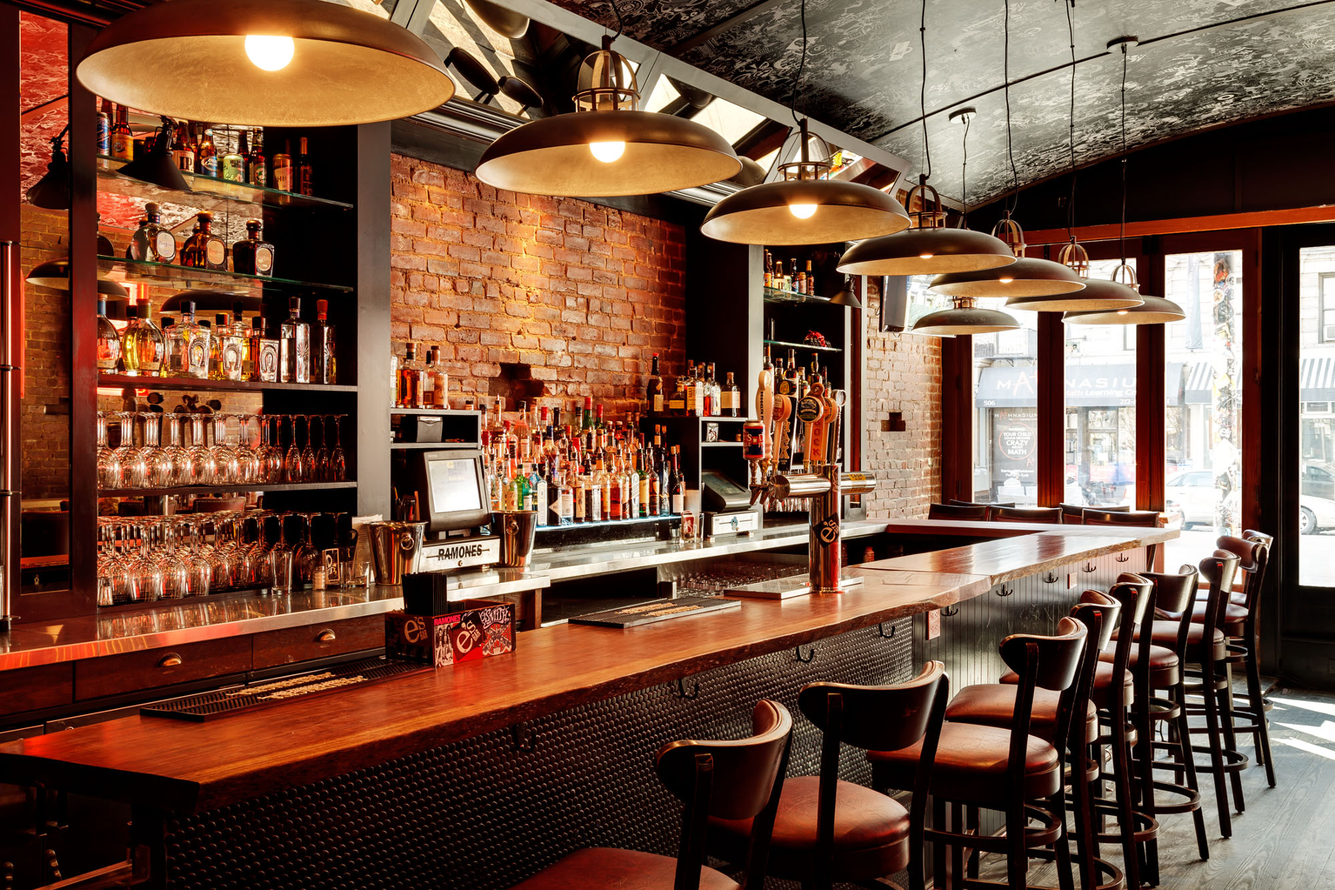
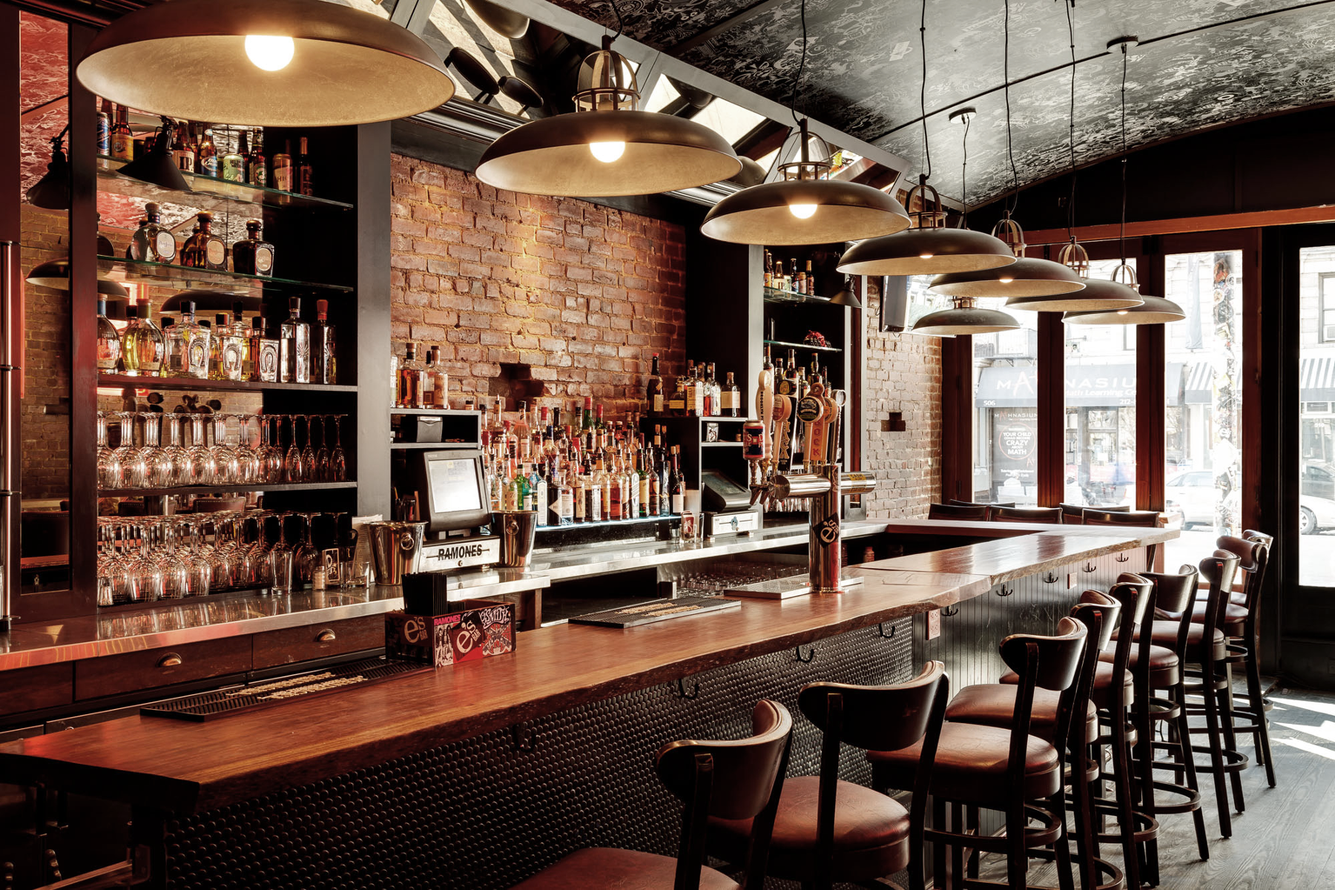
Modification Benjamin Mercredi 20/09

diff --git a/css/style.css b/css/style.css
@@ -2,7 +2,15 @@
 
 /*Paramètre général*/
 
+body {
+    background-color: black;
+}
+
 /*Background color*/
+
+.background-blanc{
+    background-color: whitesmoke;
+}
 
 section {
     background-color: whitesmoke;
@@ -16,93 +24,103 @@ section {
 
 /*Bandeau Image */
 
+
 .bandeau_titre {
-    background-image: url("../img/bar.png");
+    background-image: url("../img/bar3.jpg");
     background-size: cover;
-    background-position-y:-10em;
     background-repeat: no-repeat;
+    opacity: 0.8;
     width: 100%;
     z-index: -1;
-    height: 100vh;
+    height: 100%;
     padding-top: 5em;
     position: fixed;
 }
 
 .bandeau_titre-sm {
-    background-image: url("../img/bar.png");
-    background-position-y:-10em;
+    background-image: url("../img/bar3.jpg");
+    background-size: cover;
     background-repeat: no-repeat;
+    opacity: 0.8;
     width: 100%;
-    margin-top: 10vh;
-    padding-top: 5vh;
-    z-index: -1;
-    height: 100vh;
-    position: fixed;
+    height: 100%;
+    padding-top: 5em;
 }
 
-/*Espace vide afin d'afficher la nav bar en dessous de l'image*/
-
-.escpace-vide {
-    width: 100%;
-    height: 90vh;
-    background-color: white;
-    opacity: 0.2;
-}
-
-/*Panneau + Titre taille md et lg*/
+/*Panneau md et lg*/
 
 .panneau-titre {
-    background-color: #B7B8BD;
-    border: 5px solid black;
+    border: 10px solid white;
     border-style:double;
-    height: auto;
-    width: 30vw;
-    margin-right: auto;
-    margin-left: auto;
+    height: 70vh;
+    margin: 5vw 5vw 5vw 5vw;
     background-size: cover;
     box-shadow: 0 20px 20px 10px rgba(0, 0, 0, 0.4);
+    background-color: rgba(0,0,0,0.4);
 }
 
 /*Panneau + Titre taille xs et sm*/
 
 .panneau-titre-sm {
-    background-color: #adadad;
-    border: 5px solid;
+
+    border: 5px solid white;
     border-style:double;
-    height: 70vh;
+    height: 85vh;
     width: 80vw;
     margin-right: auto;
     margin-left: auto;
-    position: relative;
+    background-color: rgba(0,0,0,0.4);
 }
 
-.bouton-action {
-    z-index: 4;
+/*Debut Button Header*/
+
+.button_header:hover{
+    color: #adadad;
+    text-decoration: none;
 }
+
+.button_header {
+    display: block;
+    margin: auto;
+    background-color: #555555;
+    width:15vw;
+    border: none;
+    padding: 15px 15px;
+    color: white;
+    text-align: center;
+    text-decoration: none;
+    font-size: calc(100% + 2vh);
+    font-family: 'Lobster Two', cursive;
+}
+
+
 
 /*Debut Panneau Titre taille md et lg*/
 
 h1 {
     font-size: 11vw;
     text-align: center;
-    height:100%;
     color: white;
     font-family: 'Lobster', cursive;
     display: block;
+    opacity: 1;
 }
 
 .happy-hours {
     font-size:7vh;
-    color: black;
+    color: white;
     text-align: center;
     font-family: 'Lobster Two', cursive;
     margin:0;
+    opacity: 1;
+    padding-top:5vh;
 }
 
 .info-panneau {
-    font-size:4vh;
-    color: black;
+    font-size:3vh;
+    color: white;
     text-align: center;
+    opacity: 1;
 }
 /* Fin Panneau Titre*/
 
@@ -111,19 +129,19 @@ h1 {
 .panneau-titre-sm h1 {
     font-size: 15vw;
     text-align: center;
-    color: whitesmoke;
+    color: white;
     font-family: 'Lobster', cursive;
 }
 
 .panneau-titre-sm .happy-hours {
     font-size:6vh;
-    color: black;
+    color: white;
     text-align: center;
 }
 
 .panneau-titre-sm .info-panneau {
     font-size:5vh;
-    color: black;
+    color: white;
     text-align: center;
 }
 /* Fin Panneau Titre*/
@@ -135,6 +153,10 @@ h1 {
     padding-top: 2vh;
     font-size: 3vh;
     font-family: 'Raleway', sans-serif;
+}
+
+.navbar-brand {
+    font-size: calc(100% + 25px);
 }
 
 /*Navbar sticky + effet ombre*/
@@ -162,7 +184,6 @@ a .nav#navbar-main {
 }
 
 #navbar-main.affix {
-    background: black;
     top: 0;
     left: 0;
     right: 0;
@@ -171,8 +192,29 @@ a .nav#navbar-main {
 
 /*Fin de la navabr*/
 
+/*--------------------------------------------------------------------------------------*/
+
+/*  SECTION SPECIALITES */
+
+/*Image*/
+
+.imageSpécialités {
+    background-image: url("../img/beer.jpg");
+}
+
+
 
 /*Debut carousel*/
+
+.sous_titre {
+    border:none;
+    padding: 0;
+    width:10vw;
+    margin-top: auto;
+    margin-bottom: auto;
+    margin-left: 0px;
+    margin-right: auto;
+}
 
 .carousel-inner > .item > img {
     margin: auto;
@@ -191,7 +233,9 @@ a .nav#navbar-main {
 .carousel-caption {
     background: rgba(0, 0, 0, 0.8);
     font-size: 3em;
-    padding: 5px;
+    padding: 25px;
+    border: 5px solid white;
+    border-style:double;
     left: 0;
     right: 0;
     bottom: 0;
@@ -278,15 +322,15 @@ footer {
 /*Parametre des Polices + Panneau Titre*/
 
 h2 {
-    font-size: 5vw;
+    font-size: calc(100% + 3em);
     background-color: whitesmoke;
     text-align: center;
     width: 40vw;
     color: black;
     font-family: 'Lobster Two', cursive;
-    padding-top: 15vh;
-    margin-left: 30vw;
-    margin-top:0;
+    margin-top: 15vh;
+    margin-left: auto;
+    margin-right: auto;
     margin-bottom: 1.5em;
     border: solid 2px;
     border-style:hidden hidden double double;
@@ -317,7 +361,8 @@ p {
 
 .caption button{
     font-size: 2em;
-    background-color: black;
+    background-color: #222;
+    border-color: #222;
 }
 
 .carousel-caption {

diff --git a/index.html b/index.html
@@ -16,13 +16,13 @@
     <div class="container-fluid">
         <div class="row">
             <div class="hidden-xs hidden-sm col-md-12 col-lg-12">
-                <div class="bandeau_titre">
-                    <h1 class="panneau-titre" class="col-xs-12 col-sm-12 col-lg-12">Wild<br/>Bar
-                        <p class="happy-hours">Happy Hours</p>
-                        <p class=" info-panneau"><br/>Du Mardi au Dimanche<br/>18h~21h</p>
-                    </h1>
+                <div class="bandeau_titre"></div>
+                <div class="panneau-titre" class="hidden-xs col-sm-12 col-lg-12">
+                    <p class="happy-hours">Un Bar de sauvageons éduqués</p>
+                    <h1>Wild-Bar</h1>
+                    <p class=" info-panneau"><br/>Le meilleur endroit pour partager de bons moments<br/>avec vos amis</p>
+                    <a class="button_header" href="#section2">Voir la Carte</a>
                 </div>
-                <div class="escpace-vide"></div>
             </div>
         </div>
     </div>
@@ -31,16 +31,17 @@
         <div class="row">
             <div class="col-xs-12 col-sm-12 hidden-md hidden-lg">
                 <div class="bandeau_titre-sm">
+                    <div class="col-xs-12 hidden-md hidden-lg"></div>
                     <div class="panneau-titre-sm">
-                        <h1 class="col-xs-12 col-sm-12 col-lg-12">Wild<br/>Bar
-                            <p class="happy-hours"><br/>Happy Hours</p>
-                            <p class=" info-panneau"><br/>Du Mardi au Dimanche<br/>18h~21h</p>
-                        </h1>
+                        <p class="happy-hours">Un Bar de sauvageons éduqués</p>
+                        <h1>Wild-Bar</h1>
+                        <p class=" info-panneau"><br/>Le meilleur endroit pour partager de bons moments<br/>avec vos amis</p>
+
                     </div>
+                </div>
                 </div>
                 <div class="escpace-vide"></div>
             </div>
-        </div>
     </div>
 
     <!--Barre de navigation en taille lg-->
@@ -93,7 +94,6 @@
                             <!-- Menu burger -->
                             <div class="collapse navbar-collapse" id="bs-example-navbar-collapse-1">
                                 <ul class="nav navbar-nav navbar-right">
-
                                     <li class="dropdown"></li>
                                     <li class="active"><a href="#">Accueil</a></li>
                                     <li><a href="#section1">Nos spécialités</a></li>
@@ -111,28 +111,30 @@
 </header>
 
 <!--Debut section Nos Spécialités-->
-
+<div class="background-blanc">
 <section id="section1">
     <section>
         <div class="row">
 
             <div class="hidden-xs hidden-sm" class="beerTextFullscreen"> <!--Version Fullscreen-->
                 <h2>Nos spécialités</h2>
-                <div class="col-md-offset-1 col-md-5">
+                <div class="col-md-offset-1 col-md-3">
+                    <h2 class="sous_titre">Bienvenue</h2>
                     <p>
                         Lorem ipsum dolor sit amet, consectetur adipiscing elit.
                         Maecenas vitae vehicula ex, eget laoreet eros.Etiam facilisis gravida dolor, sed mollis mi
                         semper
                         ac.
-                        In hac habitasse platea dictumst. Fusce dictum mattis augue, nec fermentum risus. Maecenas vel
-                        augue
-                        iaculis, varius lectus ut, mollis dolor.
+                        In hac habitasse platea dictumst.
                     </p>
+                </div>
+                <div class="col-md-4">
+                    <img src="img/beerdess1.png">
                 </div>
 
                 <!-- Debut Carousel -->
 
-                <div class="col-md-5">
+                <div class="col-md-3">
                     <div id="carousel-example-generic" class="carousel slide hidden-xs" data-ride="carousel">
 
                         <!-- Wrapper for slides -->
@@ -475,7 +477,7 @@
         </div>
     </div>
 </section>
-
+</div>
 <!--Debut footer-->
 
 <footer>
